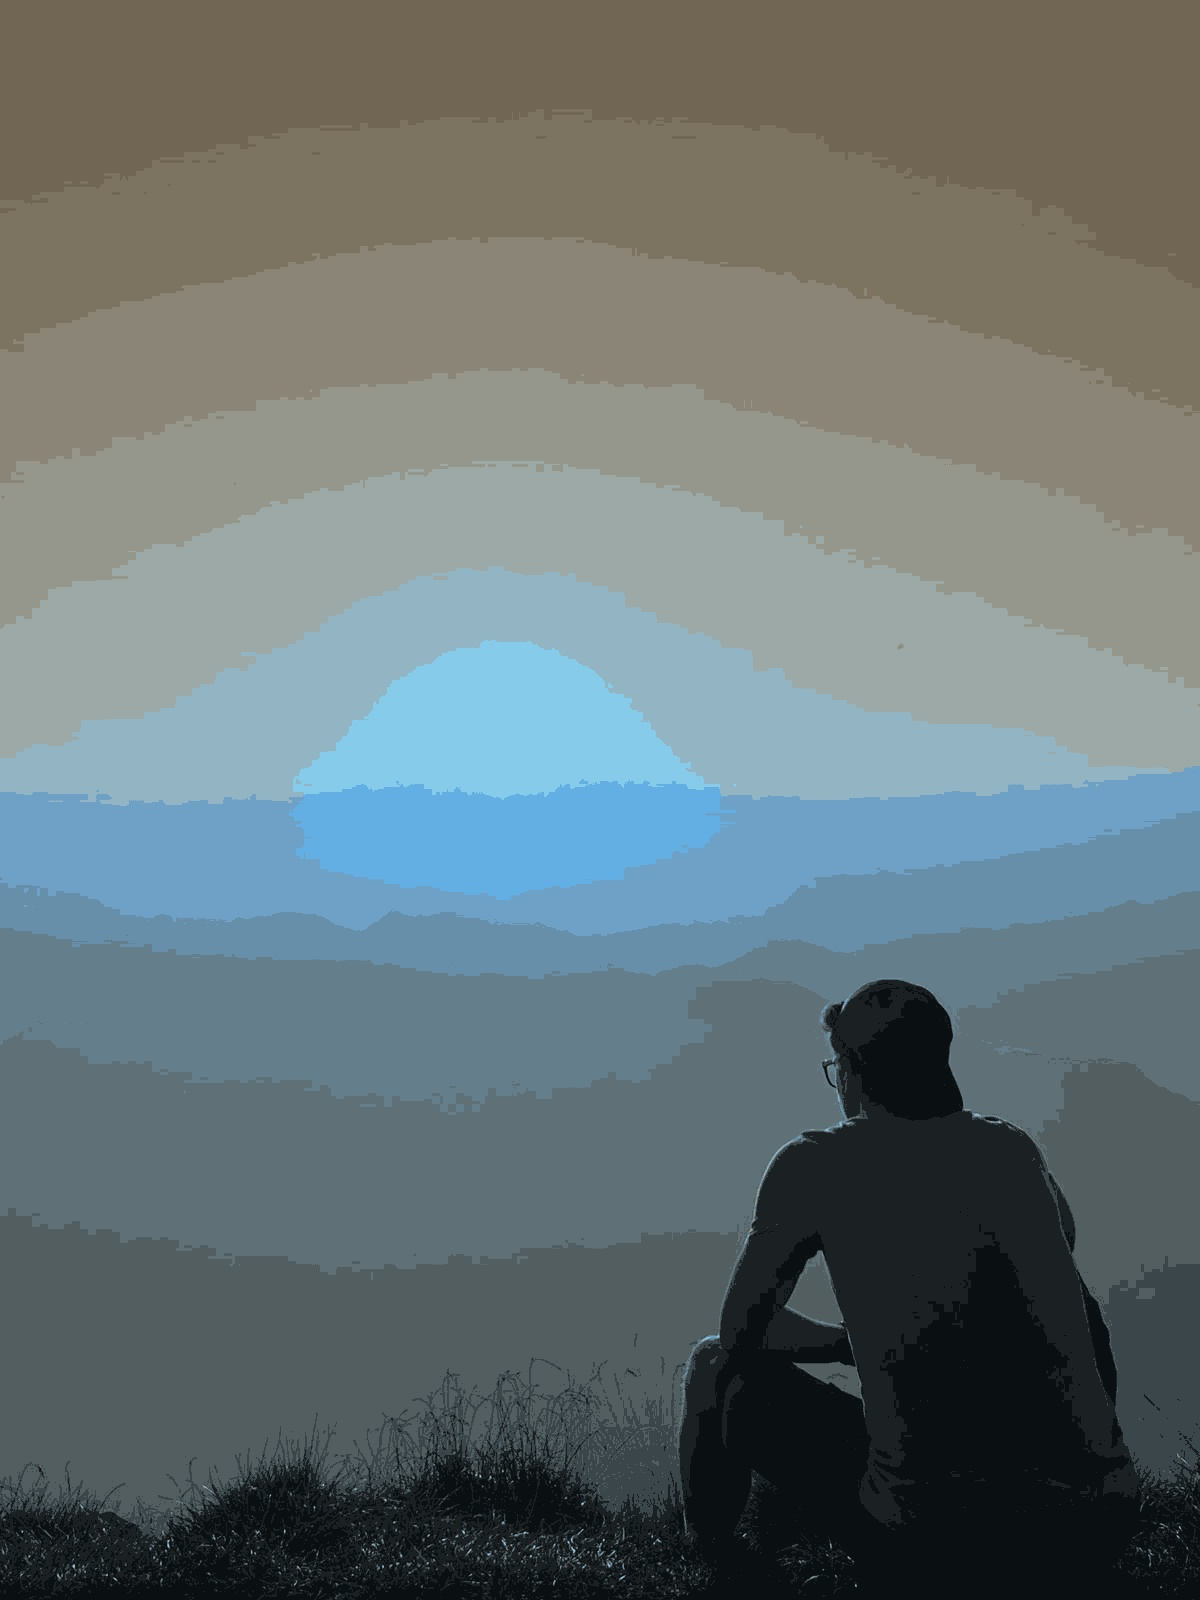
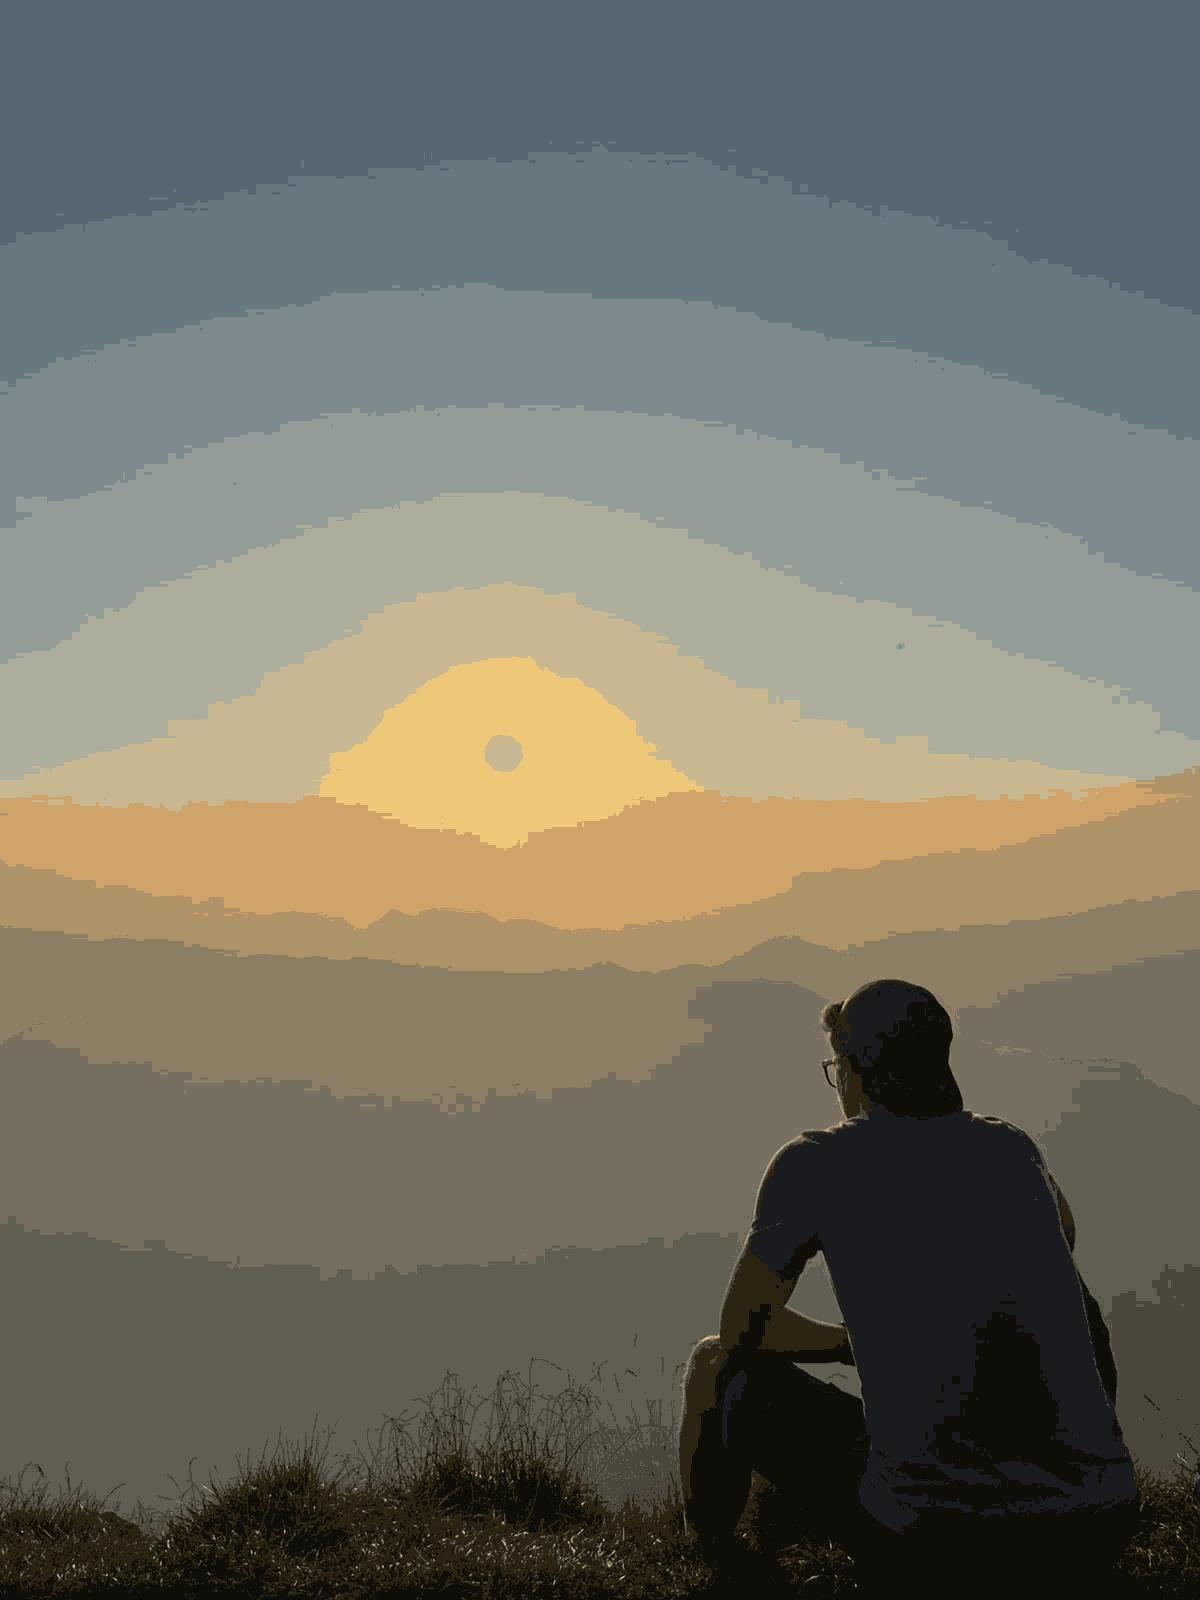
Change the pixel for the output from RGB to GBR for cv2

diff --git a/code/main.py b/code/main.py
@@ -5,7 +5,7 @@ import matplotlib.pyplot as plt
 import pandas as pd
 from sklearn.cluster import KMeans
 
-name_image = "person"
+name_image = "colors"
 
 image = cv2.imread(f'resources/{name_image}.jpg')
 image = cv2.cvtColor(image, cv2.COLOR_BGR2RGB)
@@ -14,7 +14,7 @@ image = cv2.cvtColor(image, cv2.COLOR_BGR2RGB)
 pixels = image.reshape((-1, 3)) # Each pixel is represented by its RGB values
 
 # KMeans
-number_of_colors = 32
+number_of_colors = 10
 kmeans = KMeans(n_clusters=number_of_colors)
 kmeans.fit(pixels)
 colors = np.array(kmeans.cluster_centers_, dtype='uint8')
@@ -29,6 +29,9 @@ ax[1].imshow(segmented_image)
 ax[1].set_title(f'Image with {number_of_colors} Dominant Colors')
 ax[1].axis('off')
 plt.show()
+
+# Change the pixel from RGB to GBR for cv2
+segmented_image = segmented_image[:, :, ::-1]
 
 output_path = os.path.join("output", f"output_{name_image}_{number_of_colors}.jpg")
 cv2.imwrite(output_path, segmented_image)
